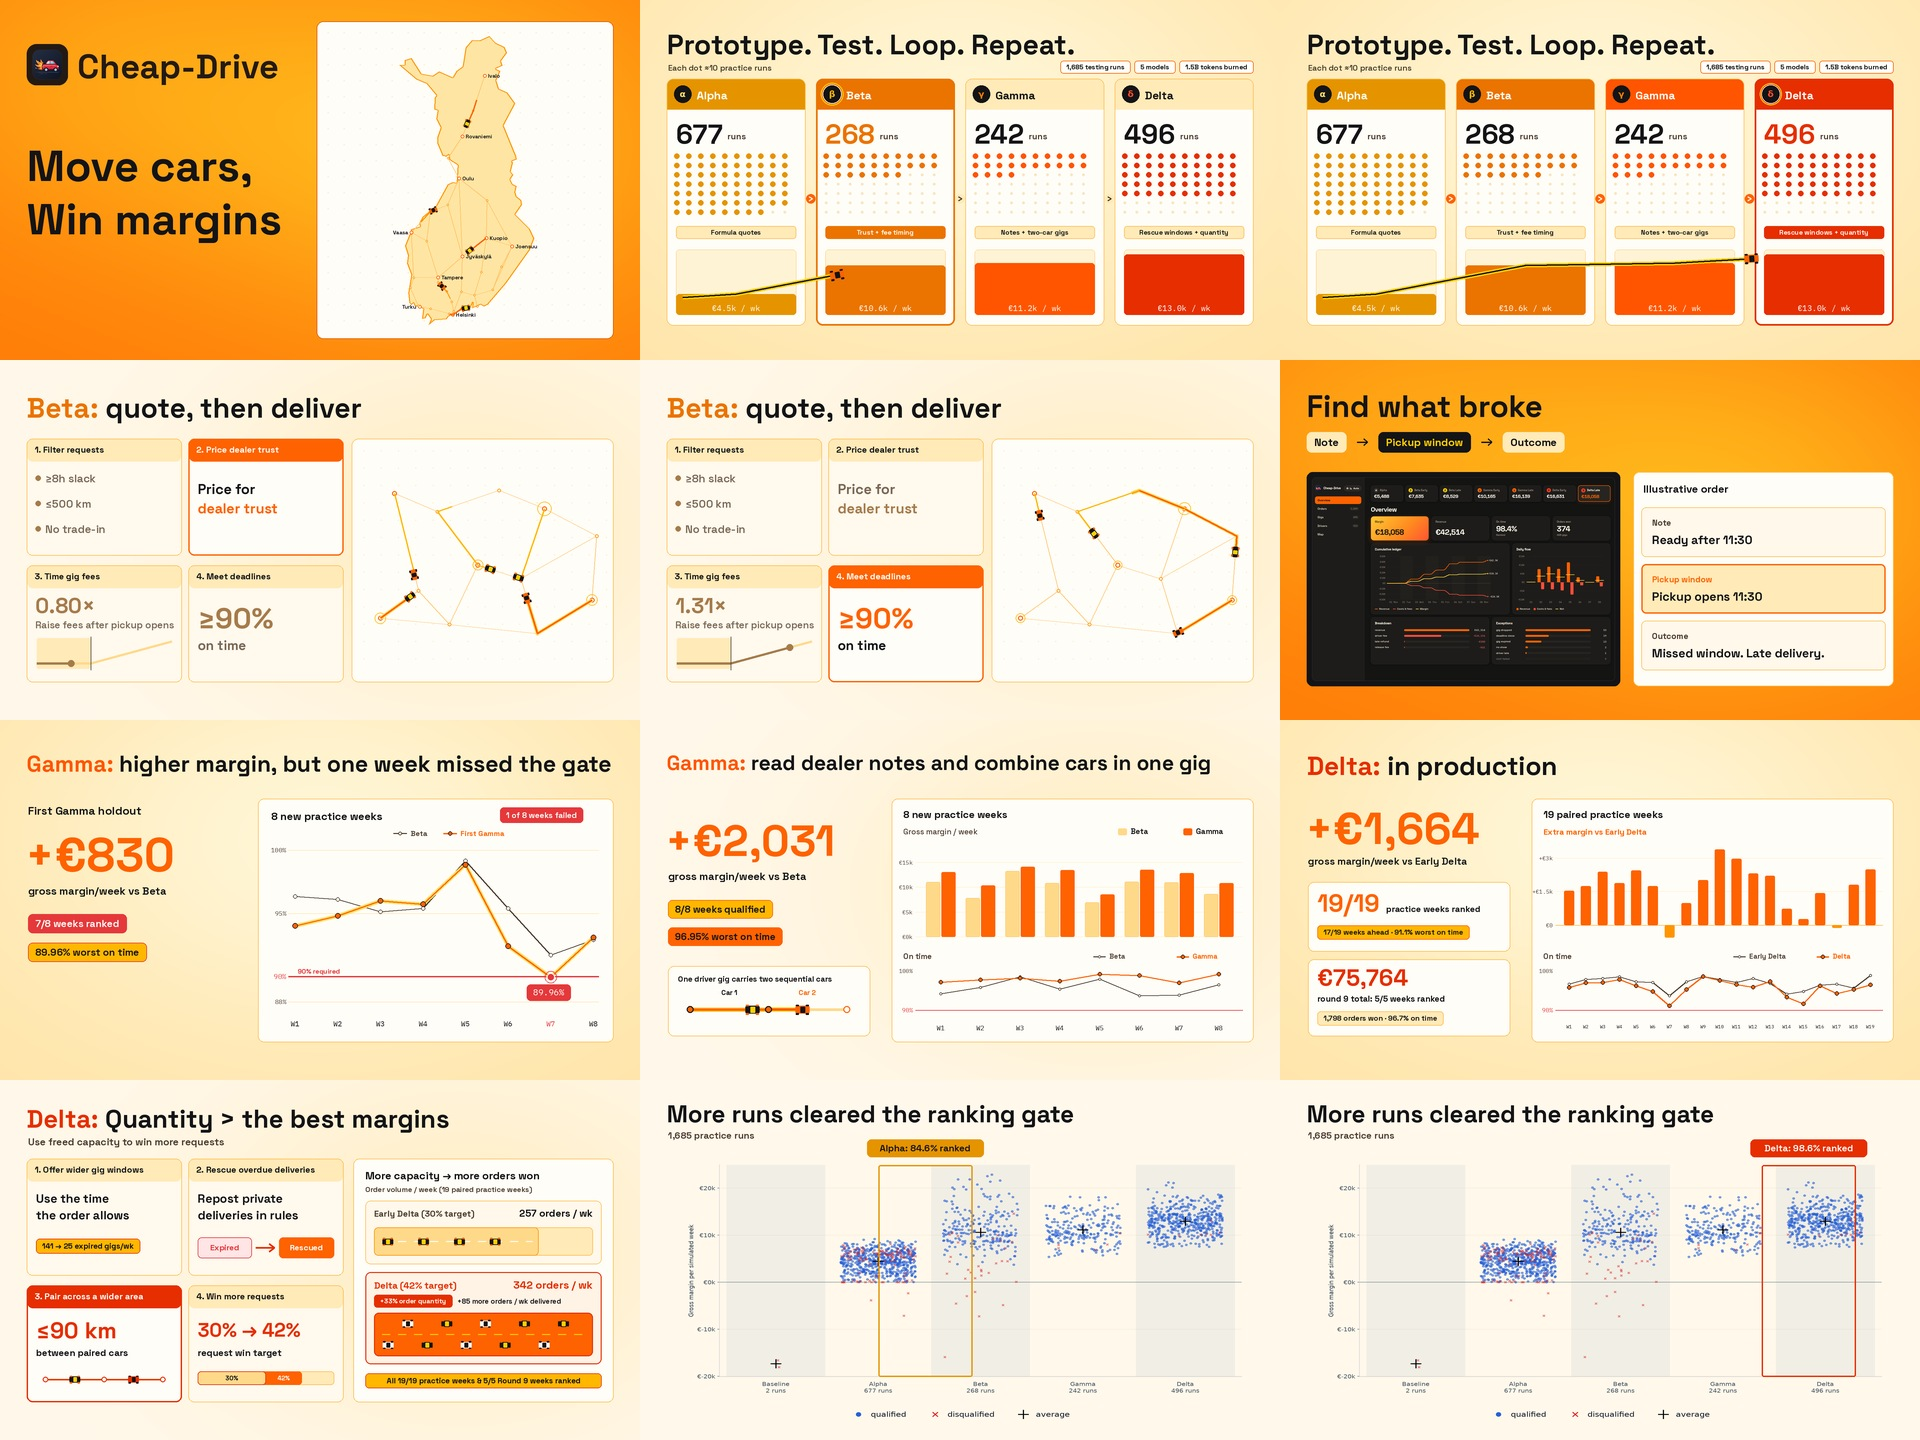
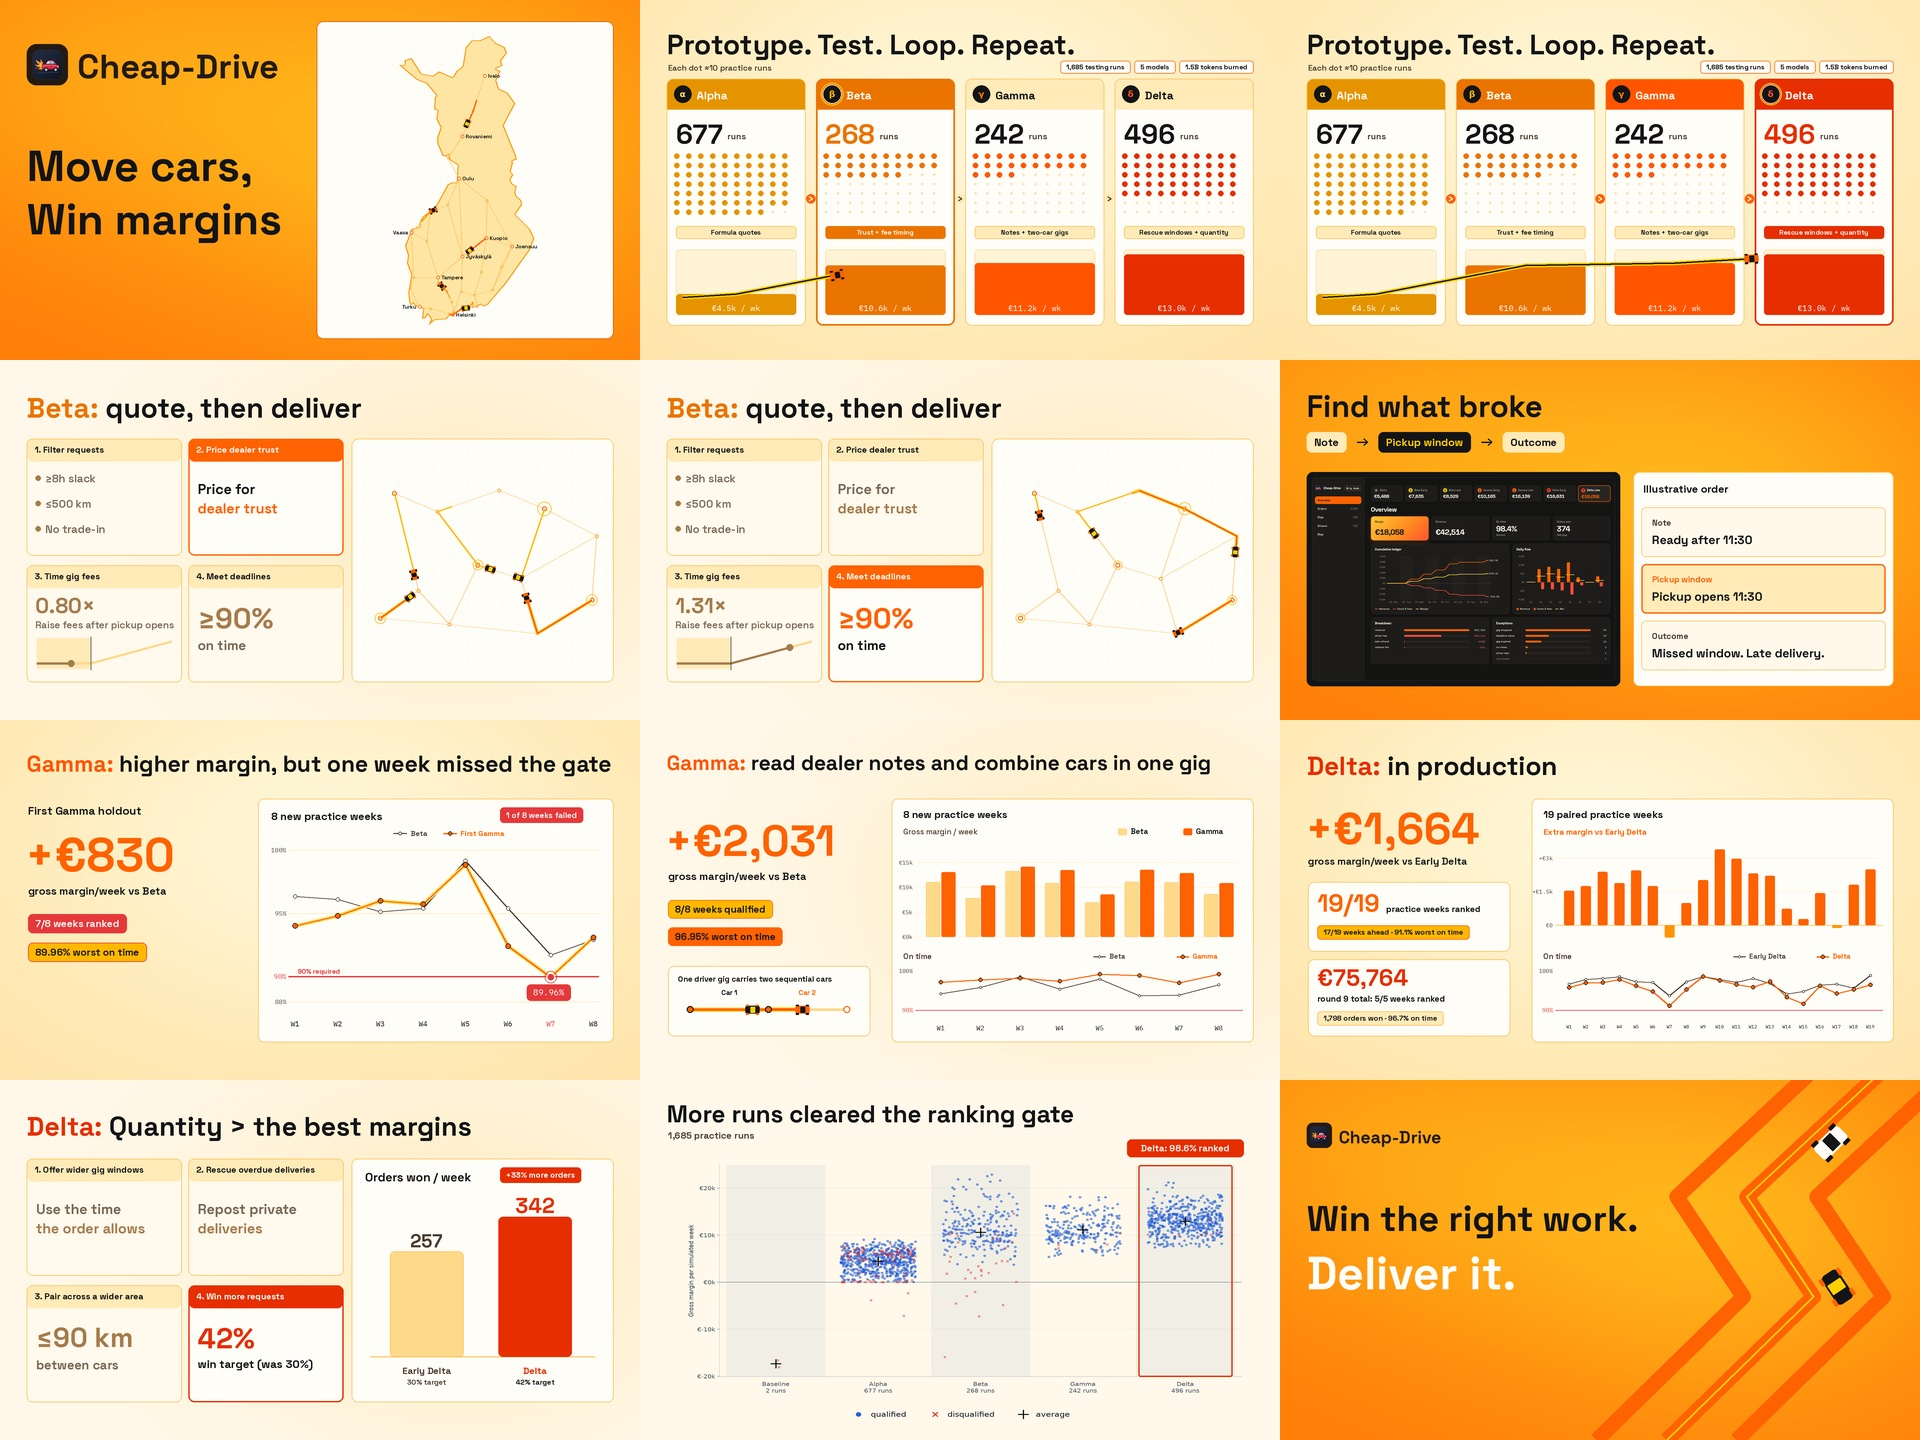
Simplify Slide 8 (Delta: Quantity > the best margins) and restore closing highway slide at 61-66s

Changed region(s): [[0.5938, 0.75, 1.0, 1.0], [0.0, 0.75, 0.3125, 0.9688], [0.4375, 0.7812, 0.5312, 0.8125]]

diff --git a/docs/demo-video/index.html b/docs/demo-video/index.html
@@ -40,8 +40,8 @@
 </head>
 <body>
   <main class="stage">
-    <video controls autoplay loop playsinline preload="auto" poster="poster.png?v=1685y" src="cheap-drive-demo.mp4?v=1685y">
-      <track kind="captions" src="captions.vtt?v=1685y" srclang="en" label="English">
+    <video controls autoplay loop playsinline preload="auto" poster="poster.png?v=1685z" src="cheap-drive-demo.mp4?v=1685z">
+      <track kind="captions" src="captions.vtt?v=1685z" srclang="en" label="English">
     </video>
   </main>
 </body>

diff --git a/docs/demo-video/render.py b/docs/demo-video/render.py
@@ -14,7 +14,7 @@ import imageio_ffmpeg
 ROOT = Path(__file__).resolve().parent
 REPO = ROOT.parents[1]
 OUT = REPO / 'runs/demo-video'
-W, H, FPS, DURATION = 1920, 1080, 30, 60
+W, H, FPS, DURATION = 1920, 1080, 30, 66
 
 # Juicy yellow-orange, golden marigold, and sunlit citrus palette (zero brown/taupe/umber).
 INK = '#141416'          # Crisp neutral carbon ink for typography & vehicle silhouettes
@@ -38,9 +38,10 @@ SCENES = [
     (20, 26),
     (26, 33),
     (33, 40),
-    (40, 46),
-    (46, 52),
-    (52, 60),
+    (40, 47),
+    (47, 53),
+    (53, 61),
+    (61, 66),
 ]
 
 GRAPH = json.loads((ROOT / 'data/graph-data.json').read_text())
@@ -926,12 +927,11 @@ def delta_production(t):
 
 
 # ---------------------------------------------------------------------------
-# Slide 8 (46–52s): Delta: Quantity > the best margins (matching presentation Slide 9)
+# Slide 8 (47–53s): Delta: Quantity > the best margins (clean, minimal layout)
 # ---------------------------------------------------------------------------
 def delta_iteration(t):
     im = base_canvas('citrus').copy()
-    enter_model_hdr(im, 'Delta:', ' Quantity > the best margins', 80, 68, 76, t, .05, model_color='#E62E00', rest_color=INK, weight=700)
-    txt(im, 'Use freed capacity to win more requests', 84, 166, 30, MUTED_INK, 650)
+    enter_model_hdr(im, 'Delta:', ' Quantity > the best margins', 80, 88, 80, t, .05, model_color='#E62E00', rest_color=INK, weight=700)
 
     step = min(3, int(t / 1.45))
     cards = [
@@ -942,102 +942,86 @@ def delta_iteration(t):
     ]
     for i, (x, y, title) in enumerate(cards):
         active = i == step
+        fg_main = INK if active else '#7A6855'
+        fg_acc = '#E62E00' if active else '#A67B4B'
         rect(im, (x, y, x + 465, y + 350), CARD if active else '#FFF9EE', '#E62E00' if active else GOLD_LINE, r=18, width=4 if active else 2)
         rect(im, (x + 2, y + 2, x + 463, y + 68), '#E62E00' if active else APRICOT, r=16)
         txt(im, title, x + 24, y + 16, 26, CARD if active else INK, 700)
 
         if i == 0:
-            txt(im, 'Use the time', x + 28, y + 96, 36, INK, 700)
-            txt(im, 'the order allows', x + 28, y + 146, 36, INK, 700)
-            badge(im, '141 → 25 expired gigs/wk', x + 28, y + 240,
-                  color=CARD if active else INK,
-                  bg='#E62E00' if active else MARIGOLD,
-                  border=None if active else '#E62E00',
-                  size=23, weight=700)
+            txt(im, 'Use the time', x + 28, y + 124, 42, fg_main, 700)
+            txt(im, 'the order allows', x + 28, y + 182, 42, fg_acc, 700)
         elif i == 1:
-            txt(im, 'Repost private', x + 28, y + 96, 36, INK, 700)
-            txt(im, 'deliveries in rules', x + 28, y + 146, 36, INK, 700)
-            rect(im, (x + 28, y + 236, x + 190, y + 298), '#FFE5E5', outline=DANGER, r=12, width=2)
-            txt(im, 'Expired', x + 109, y + 267, 24, DANGER, 700, anchor='mm')
-            line(im, [(x + 202, y + 267), (x + 256, y + 267)], '#E62E00', 5)
-            line(im, [(x + 242, y + 255), (x + 258, y + 267), (x + 242, y + 279)], '#E62E00', 5)
-            rect(im, (x + 272, y + 236, x + 437, y + 298), '#E62E00' if active else ORANGE, r=12)
-            txt(im, 'Rescued', x + 354, y + 267, 24, CARD, 700, anchor='mm')
+            txt(im, 'Repost private', x + 28, y + 124, 42, fg_main, 700)
+            txt(im, 'deliveries', x + 28, y + 182, 42, fg_acc, 700)
         elif i == 2:
-            txt(im, '≤90 km', x + 28, y + 92, 68, '#E62E00', 700)
-            txt(im, 'between paired cars', x + 28, y + 184, 28, INK, 700)
-            line(im, [(x + 56, y + 282), (x + 408, y + 282)], GOLD_TRACK, 6)
-            line(im, [(x + 56, y + 282), (x + 408, y + 282)], '#E62E00' if active else ORANGE, 4)
-            for cx_p in [x + 56, x + 232, x + 408]:
-                circle(im, cx_p, y + 282, 8, CARD, '#E62E00', 3)
-            car(im, x + 144, y + 282, color=INK, scale=0.88, angle=0)
-            car(im, x + 320, y + 282, color='#E62E00', scale=0.88, angle=0)
+            txt(im, '≤90 km', x + 28, y + 104, 82, fg_acc, 700)
+            txt(im, 'between cars', x + 28, y + 214, 38, fg_main, 700)
         else:
-            txt(im, '30% → 42%', x + 28, y + 96, 58, '#E62E00', 700)
-            txt(im, 'request win target', x + 28, y + 184, 28, INK, 700)
-            rect(im, (x + 28, y + 258, x + 437, y + 298), APRICOT, outline=GOLD_LINE, r=10, width=2)
-            rect(im, (x + 28, y + 258, x + 340, y + 298), '#E62E00' if active else ORANGE, r=10)
-            rect(im, (x + 28, y + 258, x + 232, y + 298), GOLD_TRACK, outline='#E62E00', r=10, width=2)
-            txt(im, '30%', x + 130, y + 278, 19, INK, 700, anchor='mm')
-            txt(im, '42%', x + 286, y + 278, 19, CARD, 700, anchor='mm')
+            txt(im, '42%', x + 28, y + 104, 86, fg_acc, 700)
+            txt(im, 'win target (was 30%)', x + 28, y + 214, 34, fg_main, 700)
 
-    # Right panel: Order volume / week comparison card
-    rect(im, (1060, 236, 1840, 966), CARD, GOLD_LINE, r=18, width=2)
-    txt(im, 'More capacity → more orders won', 1096, 266, 32, INK, 700)
-    txt(im, 'Order volume / week (19 paired practice weeks)', 1096, 314, 22, MUTED_INK, 650)
+    # Right panel: Ultra-clean Orders won / week bar comparison
+    rect(im, (1055, 236, 1840, 966), CARD, GOLD_LINE, r=18, width=2)
+    txt(im, 'Orders won / week', 1095, 268, 36, INK, 700)
+    badge(im, '+33% more orders', 1500, 262, color=CARD, bg='#E62E00', size=24, weight=700)
 
-    track_x0, track_x1 = 1122, 1778
-    track_w = track_x1 - track_x0
+    base_y = 830
+    max_h = 420
+    line(im, [(1110, base_y), (1785, base_y)], GOLD_LINE, 3)
 
-    # Track 1: Early Delta (30% target) -> 257 orders / wk
-    rect(im, (1096, 362, 1804, 552), CREAM, outline=GOLD_LINE, r=16, width=2)
-    txt(im, 'Early Delta (30% target)', 1122, 384, 26, MUTED_INK, 700)
-    txt(im, '257 orders / wk', 1778, 380, 30, INK, 700, anchor='ra')
+    # Left bar: Early Delta (257)
+    p1 = ease((t - 0.15) / 0.7)
+    h1 = round(max_h * (257.0 / 342.0) * p1)
+    bx1, bw = 1170, 220
+    rect(im, (bx1, base_y - h1, bx1 + bw, base_y), GOLD_TRACK, outline=GOLD_LINE, r=14, width=2)
+    txt(im, f'{round(257 * p1)}', bx1 + bw / 2, base_y - h1 - 68, 56, MUTED_INK, 700, anchor='ma')
+    txt(im, 'Early Delta', bx1 + bw / 2, base_y + 24, 28, MUTED_INK, 700, anchor='ma')
+    txt(im, '30% target', bx1 + bw / 2, base_y + 62, 22, MUTED_INK, 600, anchor='ma')
 
-    w_early = round(track_w * (257.0 / 342.0) * ease((t - 0.15) / 0.7))
-    rect(im, (track_x0, 442, track_x1, 526), APRICOT, outline=GOLD_LINE, r=12, width=2)
-    if w_early > 24:
-        rect(im, (track_x0, 442, track_x0 + w_early, 526), GOLD_TRACK, outline=MANGO, r=12, width=2)
-        for dx in range(track_x0 + 24, track_x0 + w_early - 24, 48):
-            line(im, [(dx, 484), (min(dx + 24, track_x0 + w_early - 18), 484)], CARD, 3)
-        span_e = max(1, w_early - 64)
-        for k in range(4):
-            p_c = (k / 4.0 + t * 0.22) % 1.0
-            cx = track_x0 + 32 + span_e * p_c
-            car(im, cx, 484, color=INK, scale=0.90, angle=0)
+    # Right bar: Delta (342)
+    p2 = ease((t - 0.30) / 0.8)
+    h2 = round(max_h * p2)
+    bx2 = 1495
+    rect(im, (bx2, base_y - h2, bx2 + bw, base_y), '#E62E00', r=14)
+    txt(im, f'{round(342 * p2)}', bx2 + bw / 2, base_y - h2 - 74, 64, '#E62E00', 700, anchor='ma')
+    txt(im, 'Delta', bx2 + bw / 2, base_y + 24, 28, '#E62E00', 700, anchor='ma')
+    txt(im, '42% target', bx2 + bw / 2, base_y + 62, 22, INK, 650, anchor='ma')
 
-    # Track 2: Delta (42% target) -> 342 orders / wk (+33% order quantity)
-    rect(im, (1096, 576, 1804, 852), '#FFF3E6', outline='#E62E00', r=16, width=3)
-    txt(im, 'Delta (42% target)', 1122, 598, 28, '#E62E00', 700)
-    txt(im, '342 orders / wk', 1778, 594, 32, '#E62E00', 700, anchor='ra')
-    badge(im, '+33% order quantity', 1122, 644, color=CARD, bg='#E62E00', size=20, weight=700)
-    txt(im, '+85 more orders / wk delivered', 1372, 650, 21, INK, 650)
-
-    w_delta = round(track_w * ease((t - 0.30) / 0.8))
-    rect(im, (track_x0, 698, track_x1, 828), APRICOT, outline=GOLD_LINE, r=14, width=2)
-    if w_delta > 32:
-        rect(im, (track_x0, 698, track_x0 + w_delta, 828), ORANGE, outline='#E62E00', r=14, width=3)
-        for dx in range(track_x0 + 24, track_x0 + w_delta - 24, 48):
-            line(im, [(dx, 763), (min(dx + 24, track_x0 + w_delta - 18), 763)], SUNBURST, 3)
-        span_d = max(1, w_delta - 72)
-        for k in range(5):
-            p1 = (k / 5.0 + t * 0.26) % 1.0
-            p2 = ((k + 0.5) / 5.0 + t * 0.26) % 1.0
-            cx1 = track_x0 + 36 + span_d * p1
-            cx2 = track_x0 + 36 + span_d * p2
-            car(im, cx1, 731, color=INK if k % 2 == 0 else CARD, scale=0.90, angle=0)
-            car(im, cx2, 795, color=CARD if k % 2 == 0 else INK, scale=0.90, angle=0)
-
-    badge(im, 'All 19/19 practice weeks & 5/5 Round 9 weeks ranked', 1096, 880,
-          color=INK, bg=MARIGOLD, border='#E62E00', size=23, weight=700, fixed_w=708)
     return im
 
 
-FUNCS = [hero, evolution, dispatcher, observability, failure, gain, delta_production, delta_iteration, experiments]
+# ---------------------------------------------------------------------------
+# Slide 10 (61–66s): Sol's closing highway slide
+# ---------------------------------------------------------------------------
+def ending(t):
+    im = base_canvas('juicy').copy()
+    road_layer = im.copy()
+    for offset in [-210, 0, 210]:
+        line(road_layer, [(1160 + offset, 1080), (1600 + offset, 650), (1400 + offset, 350), (1830 + offset, -50)], ORANGE, 46)
+    line(road_layer, [(1160, 1080), (1600, 650), (1400, 350), (1830, -50)], SUNBURST, 6)
+    im.paste(road_layer, (0, 0))
+
+    im.paste(LOGO_BADGE_SM, (80, 128), LOGO_BADGE_SM)
+    enter(im, 'Cheap-Drive', 176, 138, 52, t, .02, color='#231A14', weight=700)
+    enter(im, 'Win the right work.', 80, 346, 108, t, .08, color=INK, weight=700)
+    enter(im, 'Deliver it.', 80, 492, 138, t, .20, color=CARD, weight=700)
+
+    road = [(1370, 1020), (1690, 650), (1490, 350), (1825, 15)]
+    for idx_c, offset_p in enumerate([0.12, 0.54]):
+        p = (offset_p + t * .11) % 1
+        pos = route_point(road, p)
+        ahead = route_point(road, min(p + .002, 1))
+        heading = math.degrees(math.atan2(ahead[1] - pos[1], ahead[0] - pos[0]))
+        car(im, *pos, INK if idx_c == 0 else CARD, 2.8, heading)
+    return im
+
+
+FUNCS = [hero, evolution, dispatcher, observability, failure, gain, delta_production, delta_iteration, experiments, ending]
 
 
 def frame(t):
-    idx = next((i for i, (a, b) in enumerate(SCENES) if a <= t < b), 8)
+    idx = next((i for i, (a, b) in enumerate(SCENES) if a <= t < b), len(SCENES) - 1)
     a, b = SCENES[idx]
     im = FUNCS[idx](t - a)
     dt = t - a
@@ -1045,7 +1029,7 @@ def frame(t):
         xx = round(W * ease(dt / .30))
         prev = FUNCS[idx - 1](SCENES[idx - 1][1] - SCENES[idx - 1][0] + dt)
         im.paste(prev.crop((xx, 0, W, H)), (xx, 0))
-        rect(im, (max(0, xx - 12), 0, xx + 2, H), ORANGE if idx not in [0, 3, 8] else INK)
+        rect(im, (max(0, xx - 12), 0, xx + 2, H), ORANGE if idx not in [0, 3, 9] else INK)
     return im
 
 
@@ -1134,7 +1118,7 @@ def soundtrack(path):
                 add(start + j * (beat_sec / 2), noise, .012 if j % 2 else .006, (-1 if j % 2 else 1) * .3)
 
     # 1. Transition whooshes + bells at the new scene cuts
-    for cut in [5, 13, 20, 26, 33, 40, 46, 52]:
+    for cut in [5, 13, 20, 26, 33, 40, 47, 53, 61]:
         ts = np.arange(round(sr * 0.7)) / sr
         noise = rng.standard_normal(len(ts))
         noise = np.convolve(noise, np.ones(12) / 12, mode='same')
@@ -1189,25 +1173,27 @@ def soundtrack(path):
     add(35.53, note(77, 0.65, 'chime'), .030, 0.2)
     add(35.5, note(62, 0.70, 'pad'), .024, 0.0)
 
-    # 7. Slide 7 (40-46s, delta_production): Counter ticks (40.2..41.2) + bright triumphant major triad chime at 42.0
+    # 7. Slide 7 (40-47s, delta_production): Counter ticks (40.2..41.2) + bright triumphant major triad chime at 42.0
     add_counter_ticks(40.2, 41.2, count=13, midi_start=74, midi_end=86, vol=0.022)
     for j, m in enumerate([74, 78, 81, 86]):
         add(42.0 + j * 0.018, note(m, 0.58, 'chime'), .030, -0.3 + j * 0.2)
 
-    # 8. Slide 8 (46-52s, delta_iteration): 4 snappy ascending lever-activation plucks at 46.3, 47.7, 49.1, 50.5
-    for i, (t_lev, m) in enumerate(zip([46.3, 47.7, 49.1, 50.5], [74, 77, 81, 86])):
+    # 8. Slide 8 (47-53s, delta_iteration): 4 snappy ascending lever-activation plucks at 47.3, 48.7, 50.1, 51.5
+    for i, (t_lev, m) in enumerate(zip([47.3, 48.7, 50.1, 51.5], [74, 77, 81, 86])):
         pan = -0.3 + i * 0.2
         add(t_lev, note(m, 0.18, 'pluck'), .034, pan)
         add(t_lev, note(m + 12, 0.08, 'click'), .018, pan)
 
-    # 9. Slide 9 (52-60s, experiments): 4 ascending lock-in chimes at 52.8, 54.5, 56.2, 57.9 + warm D-major / F-major swell
-    for i, (t_lock, m) in enumerate(zip([52.8, 54.5, 56.2, 57.9], [72, 76, 79, 84])):
+    # 9. Slide 9 (53-61s, experiments): 4 ascending lock-in chimes at 53.8, 55.5, 57.2, 58.9
+    for i, (t_lock, m) in enumerate(zip([53.8, 55.5, 57.2, 58.9], [72, 76, 79, 84])):
         pan = -0.3 + i * 0.2
         add(t_lock, note(m, 0.46, 'chime'), .034, pan)
         add(t_lock + 0.015, note(m + 12, 0.28, 'chime'), .015, -pan * 0.5)
+
+    # 10. Slide 10 (61-66s, ending): Warm sustained D-major / F-major swell
     swell_notes = [(50, -0.4), (57, 0.35), (62, -0.25), (65, 0.25), (66, -0.15), (69, 0.15), (74, -0.3), (77, 0.3), (81, 0.0)]
     for m, pan in swell_notes:
-        add(57.85, note(m, 2.05, 'pad'), .018, pan)
+        add(61.2, note(m, 4.2, 'pad'), .018, pan)
 
     tt = np.arange(n) / sr
     fade = np.minimum(tt / 1.2, 1) * np.minimum((DURATION - tt) / 2.2, 1)
@@ -1221,7 +1207,7 @@ def soundtrack(path):
 
 
 def stills(out):
-    times = [2.2, 7.5, 11.2, 15.0, 18.2, 23.0, 29.5, 36.5, 43.0, 49.5, 54.0, 58.0]
+    times = [2.2, 7.5, 11.2, 15.0, 18.2, 23.0, 29.5, 36.5, 43.5, 51.8, 59.5, 63.5]
     thumbs = []
     for p in out.glob('frame-*.png'):
         p.unlink()

diff --git a/docs/demo-video/README.md b/docs/demo-video/README.md
@@ -35,9 +35,10 @@ Output defaults to `runs/demo-video/` (ignored by Git); `--output /absolute/path
 | 00:20–00:26 | Find what broke: Live demo app preview (`assets/live-demo-overview.png`) + `Note → Pickup window → Outcome` order inspection. |
 | 00:26–00:33 | Gamma: higher margin, but one week missed the gate (`+€830/wk`, `7/8 weeks ranked`, `W7` at `89.96%` on time). |
 | 00:33–00:40 | Gamma: read dealer notes and combine cars in one gig (`+€2,031/week vs Beta` across 8 new practice weeks, `8/8 weeks qualified`, `96.95%` worst on time). |
-| 00:40–00:46 | Delta: in production (`+€1,664/week vs Early Delta` across 19 paired practice weeks, `19/19 practice weeks ranked`, `€75,764` Round 9 total across `5/5 ranked weeks`). |
-| 00:46–00:52 | Delta: Quantity > the best margins (`Use freed capacity to win more requests`: wider gig windows, overdue rescue, `≤90 km` pairing, `30% → 42%` win target lifting volume from `257` to `342 orders/wk`). |
-| 00:52–01:00 | More runs cleared the ranking gate (`1,685 practice runs` across `Baseline: 2`, `Alpha: 677`, `Beta: 268`, `Gamma: 242`, `Delta: 496`). |
+| 00:40–00:47 | Delta: in production (`+€1,664/week vs Early Delta` across 19 paired practice weeks, `19/19 practice weeks ranked`, `€75,764` Round 9 total across `5/5 ranked weeks`). |
+| 00:47–00:53 | Delta: Quantity > the best margins (2×2 Bento: wider gig windows, overdue rescue, `≤90 km` pairing, `42%` win target lifting volume from `257` to `342 orders/wk`). |
+| 00:53–01:01 | More runs cleared the ranking gate (`1,685 practice runs` across `Baseline: 2`, `Alpha: 677`, `Beta: 268`, `Gamma: 242`, `Delta: 496`). |
+| 01:01–01:06 | Highway close (`Win the right work. Deliver it.`). |
 
 ## Evidence and limits
 
